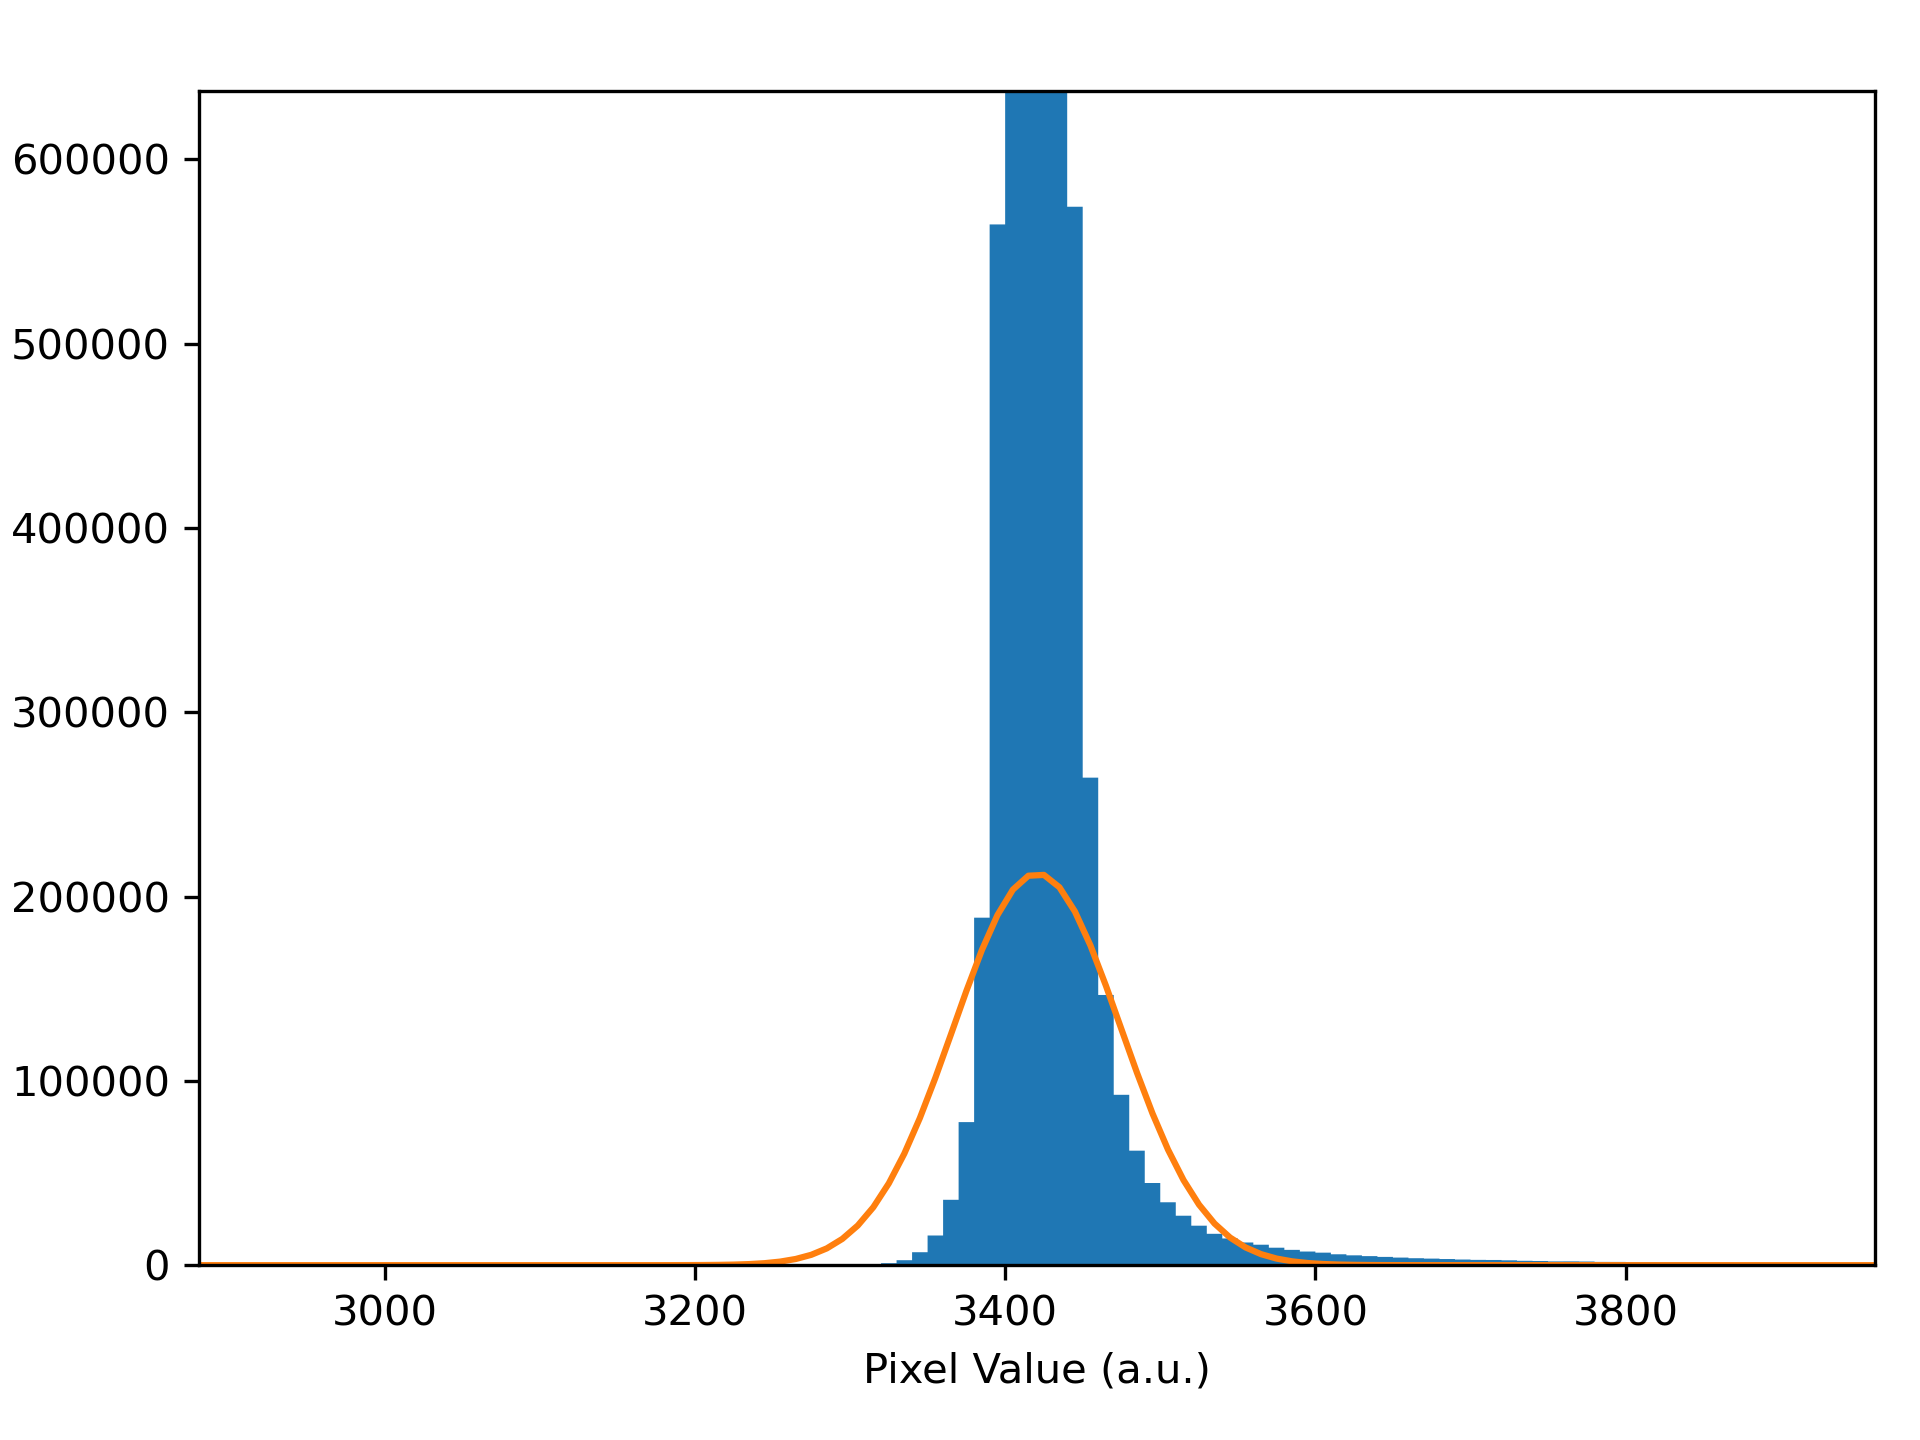
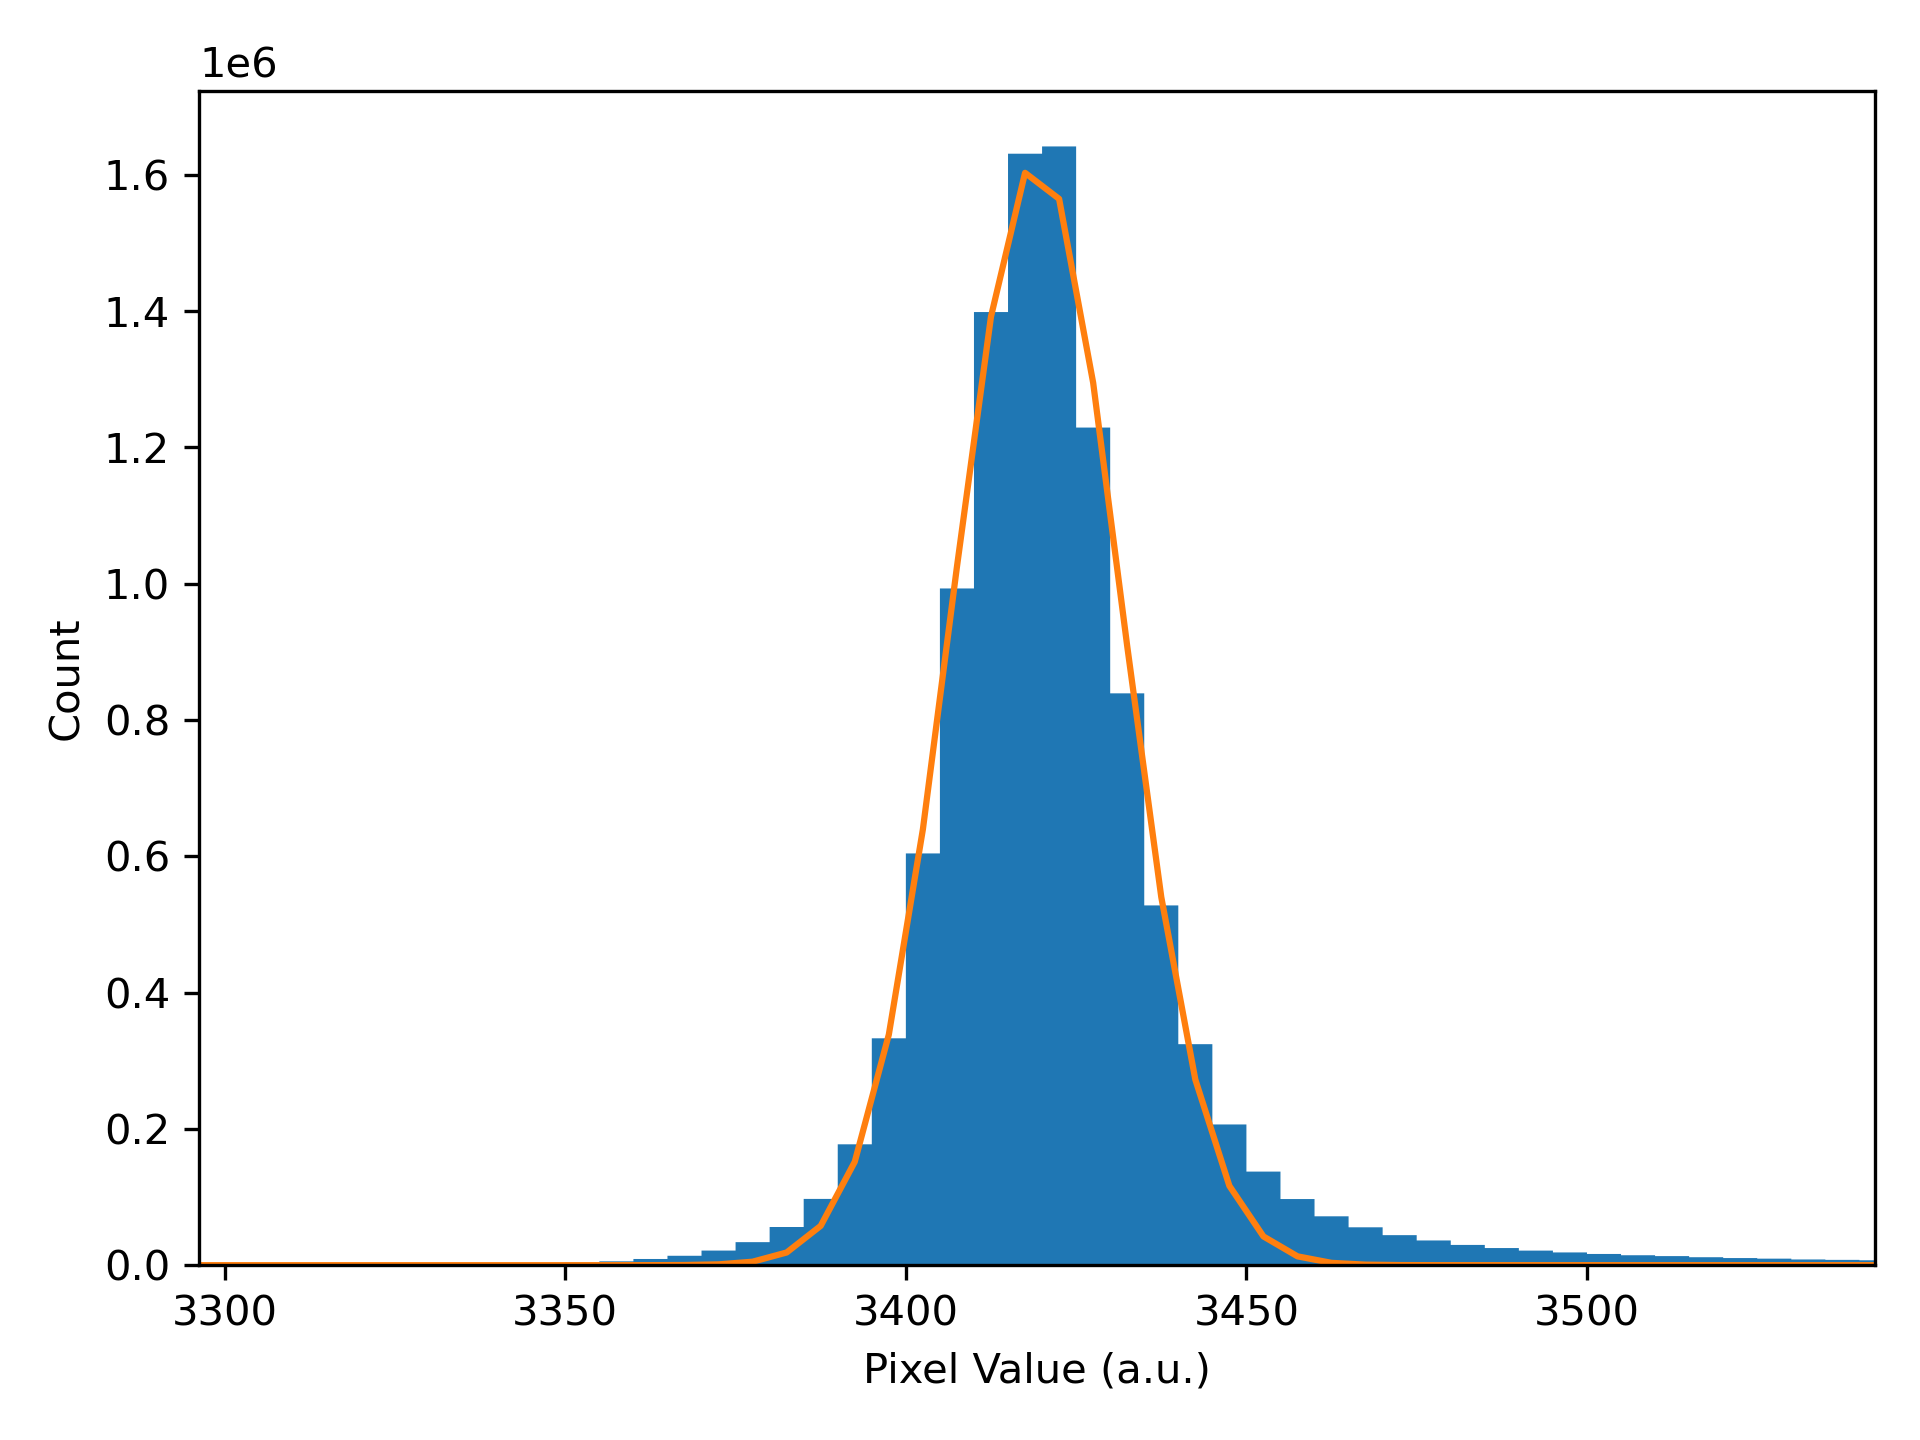
updated Gaussian binning

diff --git a/image_containers.py b/image_containers.py
@@ -73,7 +73,7 @@ class ImageContainer():
                  for mask in self.__mask]
         return image, masks
 
-    def masked_image_pixels(self, coord=None):
+    def masked_image_pixels(self, coord=None, threshold=6000):
         '''
         Returns the pixel values of the masked image.
 
@@ -81,12 +81,17 @@ class ImageContainer():
             coord (list | None): The coordinates of the region. In the
                 format of [x_start, x_end, y_start, y_end]. If None,
                 return original image. Defaults to None.
+            threshold (int | None): The pixel value threshold. If None,
+                return all pixels. Defaults to 4000.
 
         Returns:
             arr: The pixel values of the masked image.
         '''
         image, masks = self.select_image_region(coord=coord)
-        return image[np.array(masks).all(axis=0)]
+        masked_image = image[np.array(masks).all(axis=0)]
+        if threshold is not None:
+            masked_image = masked_image[masked_image < threshold]
+        return masked_image
 
     def plot_image(self, coord=None):
         '''
@@ -99,19 +104,19 @@ class ImageContainer():
                 Defaults to None.
         '''
         image, masks = self.select_image_region(coord=coord)
-        # plt.imshow(image, cmap="viridis")
+        plt.imshow(image, cmap="viridis")
         for mask in masks:
             plt.imshow(mask, cmap="gray", alpha=0.7)
         plt.tight_layout()
         # plt.savefig("figures/masked image", dpi=300)
         plt.show()
 
-    def pixel_hist(self, bin_width=10., coord=None):
+    def pixel_hist(self, bin_width=5., coord=None):
         '''
         Calculates the pixel value histogram of the masked image.
 
         Args:
-            bin_width (float): The bin width. Defaults to 10.
+            bin_width (float): The bin width. Defaults to 5.
             coord (list): The range of the coordinates to evaluate the
                 histogram at. In the format of [x_start, x_end,
                 y_start, y_end]. If None, evaluate the entire image.
@@ -124,13 +129,13 @@ class ImageContainer():
         bins = np.arange(image.max() + 10, step=bin_width)
         return np.histogram(image, bins=bins)
 
-    def pixel_hist_gaussian_fit(self, p0, bin_width=10., coord=None):
+    def pixel_hist_gaussian_fit(self, p0, bin_width=5., coord=None):
         '''
         Fits a Gaussian distribution to the pixel value histogram.
 
         Args:
             p0 (list): Initial guesses.
-            bin_width (float): The bin width. Defaults to 10.
+            bin_width (float): The bin width. Defaults to 5.
             coord (list): The range of the coordinates to evaluate the
                 histogram at. In the format of [x_start, x_end,
                 y_start, y_end]. If None, evaluate the entire image.
@@ -143,21 +148,18 @@ class ImageContainer():
         bins = (bin_edge[1:] + bin_edge[:-1]) / 2
         return gaussian_1d_fit(x_data=bins, y_data=count, p0=p0)
 
-    def plot_pixel_hist(self, bin_width=10., coord=None, p0=None,
-                        zoomed_in=False):
+    def plot_pixel_hist(self, bin_width=5., coord=None, p0=None):
         '''
         Plots the pixel value histogram of the masked image.
 
         Args:
-            bin_width (float): The bin width. Defaults to 10.
+            bin_width (float): The bin width. Defaults to 5.
             coord (list | None): The range of the coordinates to
                 evaluate the histogram at. In the format of [x_start,
                 x_end, y_start, y_end]. If None, evaluate the entire
                 image. Defaults to None.
             p0 (list | None): Initial guesses. If supplied, plots the
                 Gaussian fit. Defaults to None.
-            zoomed_in (bool): If True, zoom in to the Gaussian region.
-                Defauls to False
         '''
         count, bin_edge = self.pixel_hist(coord=coord, bin_width=bin_width)
         plt.stairs(count, bin_edge, fill=True)
@@ -174,8 +176,6 @@ class ImageContainer():
         plt.xlabel("Pixel Value (a.u.)")
         plt.ylabel("Count")
         plt.tight_layout()
-        if zoomed_in:
-            plt.xlim(popt[1] - 10*popt[2], popt[1] + 10*popt[2])
-            plt.ylim(top=3*popt[0])
+        plt.xlim(popt[1] - 10*popt[2], popt[1] + 10*popt[2])
         # plt.savefig("figures/masked image histogram", dpi=300)
         plt.show()

diff --git a/main.py b/main.py
@@ -11,8 +11,8 @@ mask = iio.imread('Fits_Data/mask.png')
 
 # Plots the histogram.
 mosaic = ImageContainer(image=image[0].data)
-mosaic.threshold_mask().import_mask(mask=mask)
-mosaic.plot_pixel_hist(p0=[3e6, 4000, 1000], zoomed_in=True)
+mosaic.import_mask(mask=mask)
+mosaic.plot_pixel_hist(p0=[2e6, 3400, 10])
 
 
 # def plot_mask_image(image, mask):
